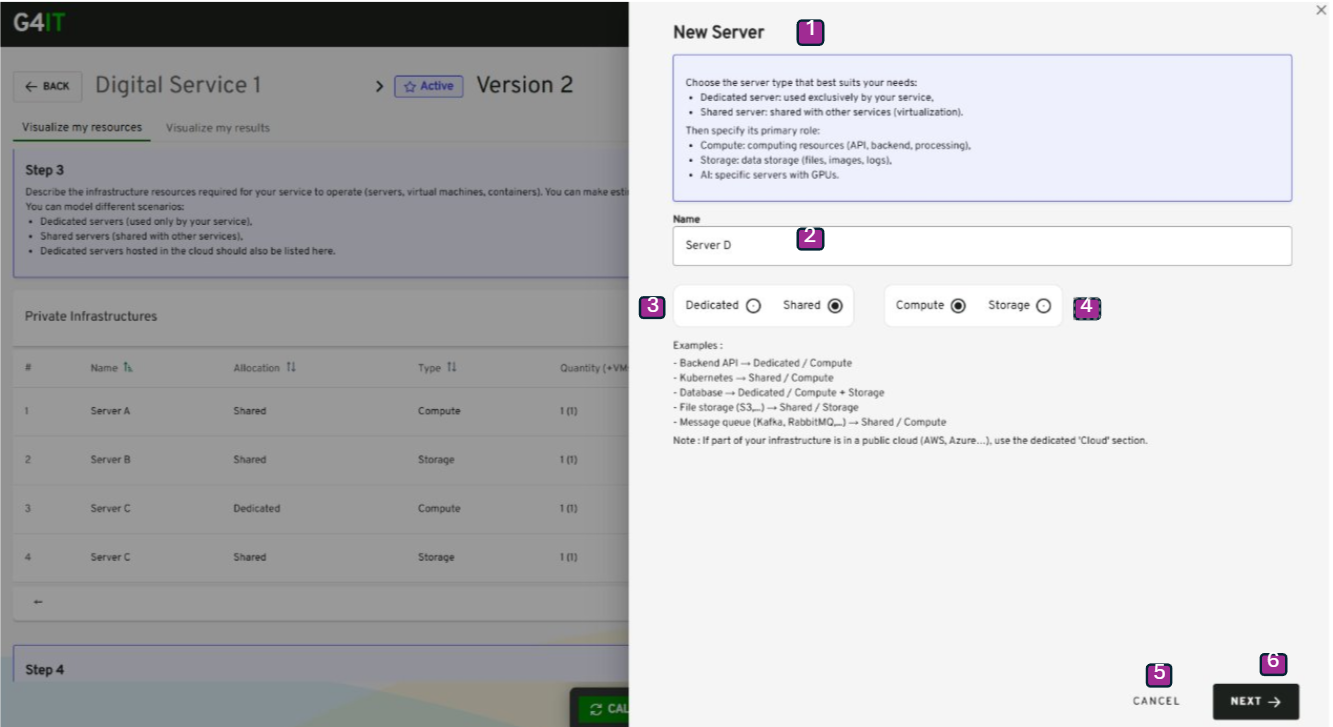
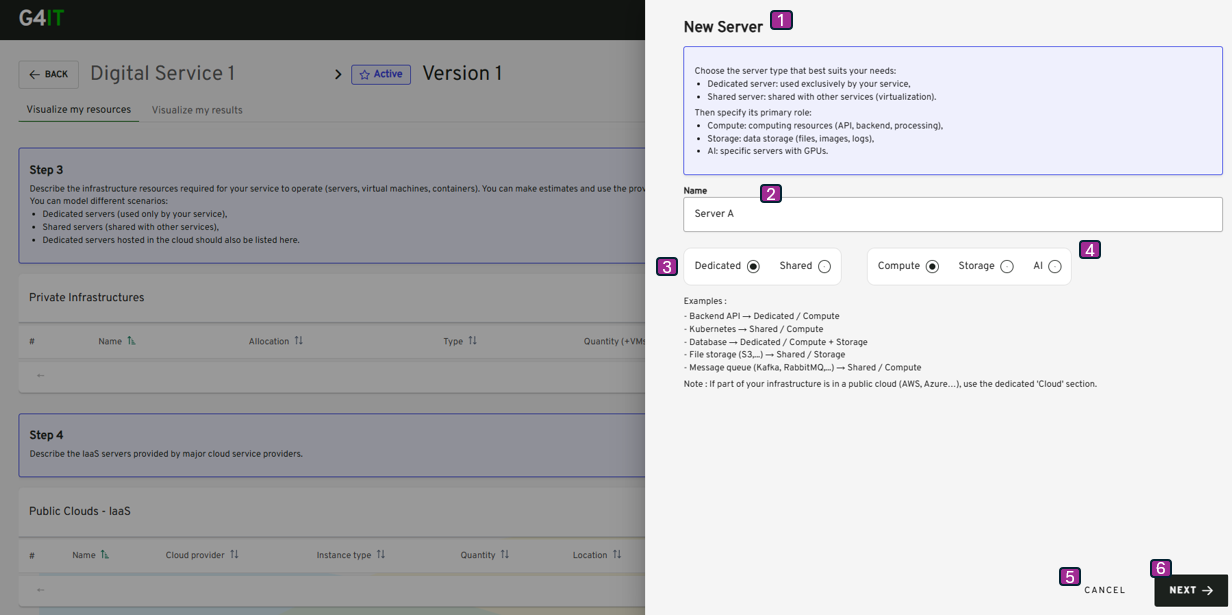
feat(2329): Digital Service AI documentation

diff --git a/services/documentation/content/2-functional-documentation/use_cases/uc_digital_services/uc3_add_visualize_equipments/uc3_add_visualize_noncloud-servers/add_visualize_nonCloud_servers_via_forms.md b/services/documentation/content/2-functional-documentation/use_cases/uc_digital_services/uc3_add_visualize_equipments/uc3_add_visualize_noncloud-servers/add_visualize_nonCloud_servers_via_forms.md
@@ -56,39 +56,41 @@ The connected user must have the write access for that module on the selected wo
 | 1         | New Server or Edit Server | title        |                                                                         |
 | 2         | Name                      | label input  |                                                                         |
 | 3         | Dedicated or Shared       | Radio button |                                                                         |
-| 4         | Compute or Storage        | Radio button |                                                                         |
+| 4         | Compute or Storage or AI  | Radio button |                                                                         |
 | 5         | Cancel                    | button       | <li><u>_action rules_</u>: That button open the window Network details. |
 | 6         | Next                      | button       |                                                                         |
 
 {{% /expand %}}
 
-### Step 2—field depending on the "Dedicated/Shared" & "Compute/Storage" options
+### Step 2—field depending on the "Dedicated/Shared" & "Compute/Storage/AI" options
 
 _example:_
 ![uc3_add_visualize_equipments_NCServerAdd_Step2.png](../../../images/uc3_add_visualize_equipments_NCServerAdd_Step2.png)
+![uc3_add_visualize_equipments_NCServerAdd_Step2_1.png](../../../images/uc3_add_visualize_equipments_NCServerAdd_Step2_1.png)
 
 {{% expand title="Show the behavior detail" expanded="false" center="true"%}}
 
-| Reference | Group                | Elements                             | Type                 | Dedicated / Compute | Shared / Compute | Shared/Storage | Dedicated/Storage | Description                                                             |
-| --------- | -------------------- | ------------------------------------ | -------------------- | ------------------- | ---------------- | -------------- | ----------------- | ----------------------------------------------------------------------- |
-|           | Header               |                                      |                      |                     |                  |                |                   |                                                                         |
-| 1         |                      | Server name                          | title                | Yes                 | Yes              | Yes            | Yes               |                                                                         |
-| 2         |                      | Server profile                       | sub-title            | Yes                 | Yes              | Yes            | Yes               |                                                                         |
-| 3         |                      | Host                                 | Dropdown             | Yes                 | Yes              | Yes            | Yes               |                                                                         |
-|           | Additional parameter |                                      |                      |                     |                  |                |                   |                                                                         |
-| A         |                      | Datacenter                           | Dropdown             | Yes                 | Yes              | Yes            | Yes               |                                                                         |
-|           |                      | Add Datacenter                       | button               | Yes                 | Yes              | Yes            | Yes               |                                                                         |
-| C         |                      | Quantity                             | Entire number input  | Yes                 |                  |                | Yes               |                                                                         |
-| E         |                      | Total vCPU                           | Entire number input  | Yes                 | Yes              |                |                   |                                                                         |
-| F         |                      | Server lifespan (Year)               | Decimal number input | Yes                 | Yes              | Yes            | Yes               |                                                                         |
-| D         |                      | Annual electricity consumption (kwH) | Entire number input  | Yes                 | Yes              | Yes            | Yes               |                                                                         |
-| G         |                      | Annual Operating time (hour)         | Entire number input  | Yes                 |                  |                | Yes               |                                                                         |
-| H         |                      | Total Disk (GB)                      | Entire number input  |                     |                  | Yes            | Yes               |                                                                         |
-|           | Footer               |                                      |                      |                     |                  |                |                   |                                                                         |
-| 4         |                      | Cancel                               | button               | Yes                 | Yes              | Yes            | Yes               | <li><u>_action rules_</u>: That button open the window Network details. |
-| 5         |                      | Previous                             | button               | Yes                 | Yes              | Yes            | Yes               |                                                                         |
-| 6         |                      | Create                               | button               | Yes                 |                  |                | Yes               |                                                                         |
-| 6         |                      | Next                                 | button               |                     | Yes              | Yes            |                   |                                                                         |
+| Reference | Group                | Elements                             | Type                 | Dedicated / Compute | Shared / Compute | AI/Compute  |   Shared/Storage | Dedicated/Storage |  AI/Storage    | Description                                                             |
+| --------- | -------------------- | ------------------------------------ | -------------------- | ------------------- | ---------------- |------------ |----------------- | ----------------- |----------------|--------------------------------------------------------- |
+|           | Header               |                                      |                      |                     |                  |             |                  |                   |                |                                                                         |
+| 1         |                      | Server name                          | title                | Yes                 | Yes              | Yes         |   Yes            | Yes               |  Yes           |                                                                         |
+| 2         |                      | Server profile                       | sub-title            | Yes                 | Yes              | Yes         |   Yes            | Yes               |  Yes           |                                                                         |
+| 3         |                      | Host                                 | Dropdown             | Yes                 | Yes              | Yes         |   Yes            | Yes               |  Yes           |                                                                         |
+|           | Additional parameter |                                      |                      |                     |                  |             |                  |                   |                |                                                                         |
+| A         |                      | Datacenter                           | Dropdown             | Yes                 | Yes              | Yes         |   Yes            | Yes               |  Yes           |                                                                         |
+|           |                      | Add Datacenter                       | button               | Yes                 | Yes              | Yes         |   Yes            | Yes               |  Yes           |                                                                         |
+| C         |                      | Quantity                             | Entire number input  | Yes                 |                  | Yes         |                  | Yes               |                |                                                                         |
+| E         |                      | Total vCPU                           | Entire number input  | Yes                 | Yes              |             |                  |                   |                |                                                                         |
+| F         |                      | Server lifespan (Year)               | Decimal number input | Yes                 | Yes              | Yes         |   Yes            | Yes               |  Yes           |                                                                         |
+| D         |                      | Annual electricity consumption (kwH) | Entire number input  | Yes                 | Yes              | Yes         |   Yes            | Yes               |  Yes           |                                                                         |
+| G         |                      | Annual Operating time (hour)         | Entire number input  | Yes                 |                  | Yes         |                  | Yes               |                |                                                                         |
+| H         |                      | Total Disk (GB)                      | Entire number input  |                     |                  |             |   Yes            | Yes               |                |                                                                         |
+| I         |                      | Total vRAM                           | Entire number input  |                     |                  | Yes         |                  |                   |  Yes           |                                                                         |
+|           | Footer               |                                      |                      |                     |                  |             |                  |                   |                |                                                                         |
+| 4         |                      | Cancel                               | button               | Yes                 | Yes              |             |   Yes            | Yes               |                | <li><u>_action rules_</u>: That button open the window Network details. |
+| 5         |                      | Previous                             | button               | Yes                 | Yes              |             |   Yes            | Yes               |                |                                                                         |
+| 6         |                      | Create                               | button               | Yes                 |                  |             |                  | Yes               |                |                                                                         |
+| 6         |                      | Next                                 | button               |                     | Yes              |             |   Yes            |                   |                |                                                                         |
 
 {{% /expand %}}
 

diff --git a/services/documentation/content/2-functional-documentation/use_cases/uc_digital_services/uc3_add_visualize_equipments/uc3_add_visualize_noncloud-servers/_index.md b/services/documentation/content/2-functional-documentation/use_cases/uc_digital_services/uc3_add_visualize_equipments/uc3_add_visualize_noncloud-servers/_index.md
@@ -65,7 +65,7 @@ My Digital Services / My Digital Service / Visualize my resources tab /Private I
 | 1         | New Server or Edit Server | title        |                                                                         |
 | 2         | Name                      | label input  |                                                                         |
 | 3         | Dedicated or Shared       | Radio button |                                                                         |
-| 4         | Compute or Storage        | Radio button |                                                                         |
+| 4         | Compute or Storage or AI  | Radio button |                                                                         |
 | 5         | Cancel                    | button       | <li><u>_action rules_</u>: That button open the window Network details. |
 | 6         | Next                      | button       |                                                                         |
 
